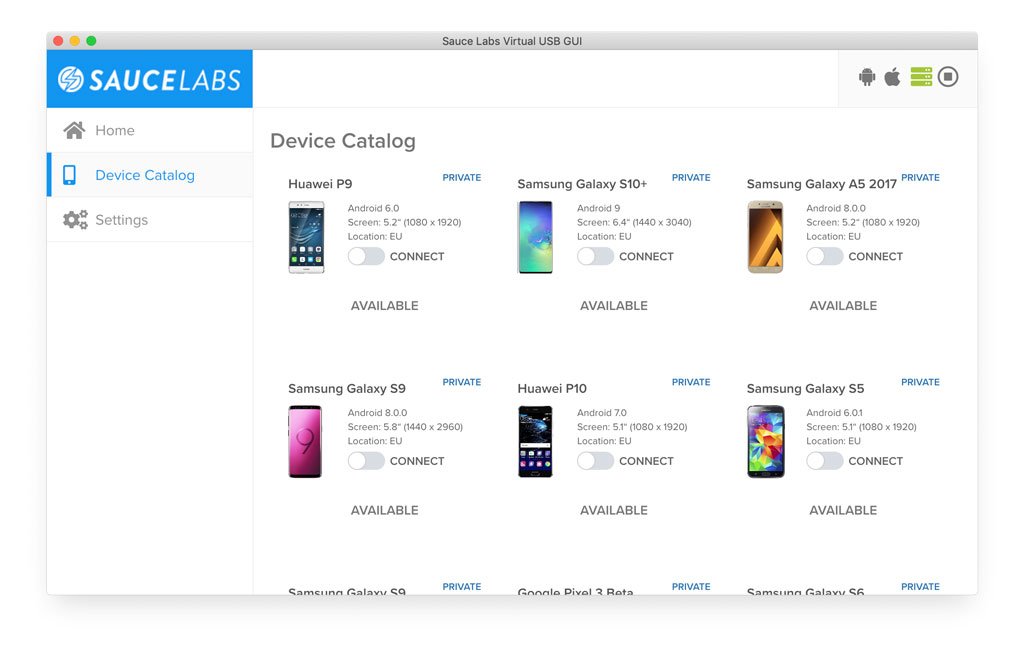
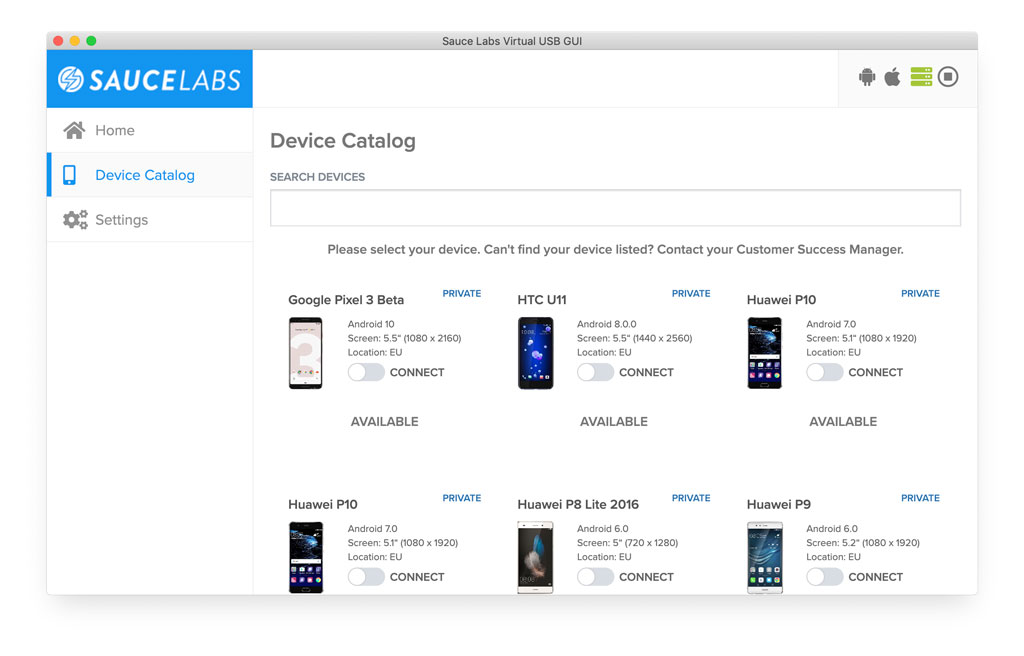
update readme

diff --git a/README.md b/README.md
@@ -36,7 +36,7 @@ You can adjust the server settings by scrolling down.
 When all *Settings* have been stored the *Device Catalog* can be used (if you didn't store the data properly clicking on the *Device Catalog* will automatically bring you back to the *Settings*).
 You will see a screen like this.
 
-![Device Catalog](./assets/server-not-running.jpg)
+![Device Catalog](./assets/device-searchbar.jpg)
 
 You can't select a device because you first need to start the server, this can be done by clicking on the play-button. The screen will update and look like this.
 
@@ -46,6 +46,10 @@ To see the logs of the server click on the green icon, the logs can also be clea
 The monitor can be closed by clicking on the cross.
 
 ![Server monitor](./assets/server-monitor.jpg)
+
+You can easily search devices. Each word will be seen as an argument and the device needs to match all arguments.
+
+![Search devices](./assets/device-search-results.jpg)
 
 Connect to a device by clicking on the switch. After a few minutes the switch will change from `Connecting` to `Connected` and the device will get an `In Use` badge, see below.
 
@@ -66,8 +70,8 @@ This will give you the opportunity to connect the device to for example Chrome a
 
 ## TODO:
 - [ ] Verify that the device connection is really killed
-- [ ] Sort the devices, they are now only shown based on how we get them with the API call
-- [ ] Add a generic notification/error handler
+- [x] Sort the devices, they are now only shown based on how we get them with the API call
+- [x] Add a generic notification/error handler
 - [ ] Implement proxy for getting the data from the API through a proxy
 - [ ] Some other stuff that I don't know now =)
 
